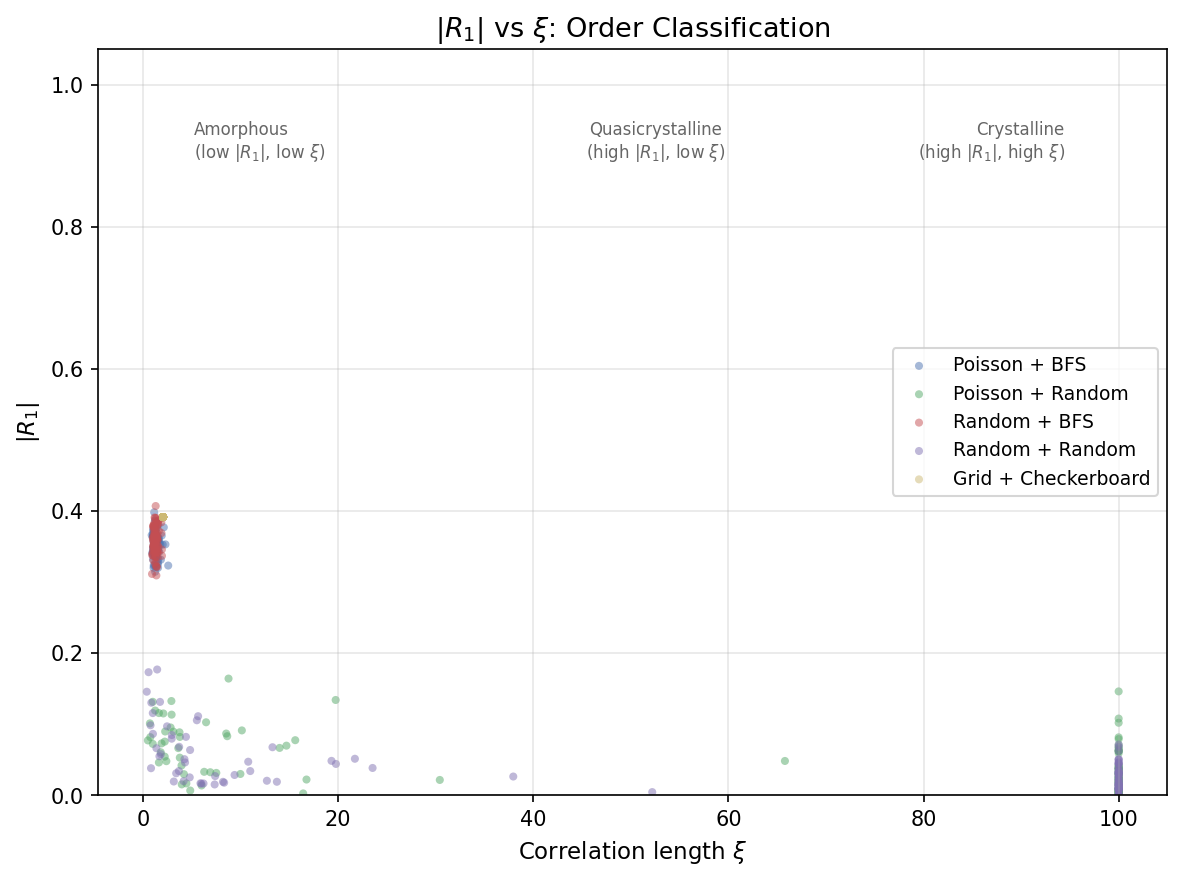
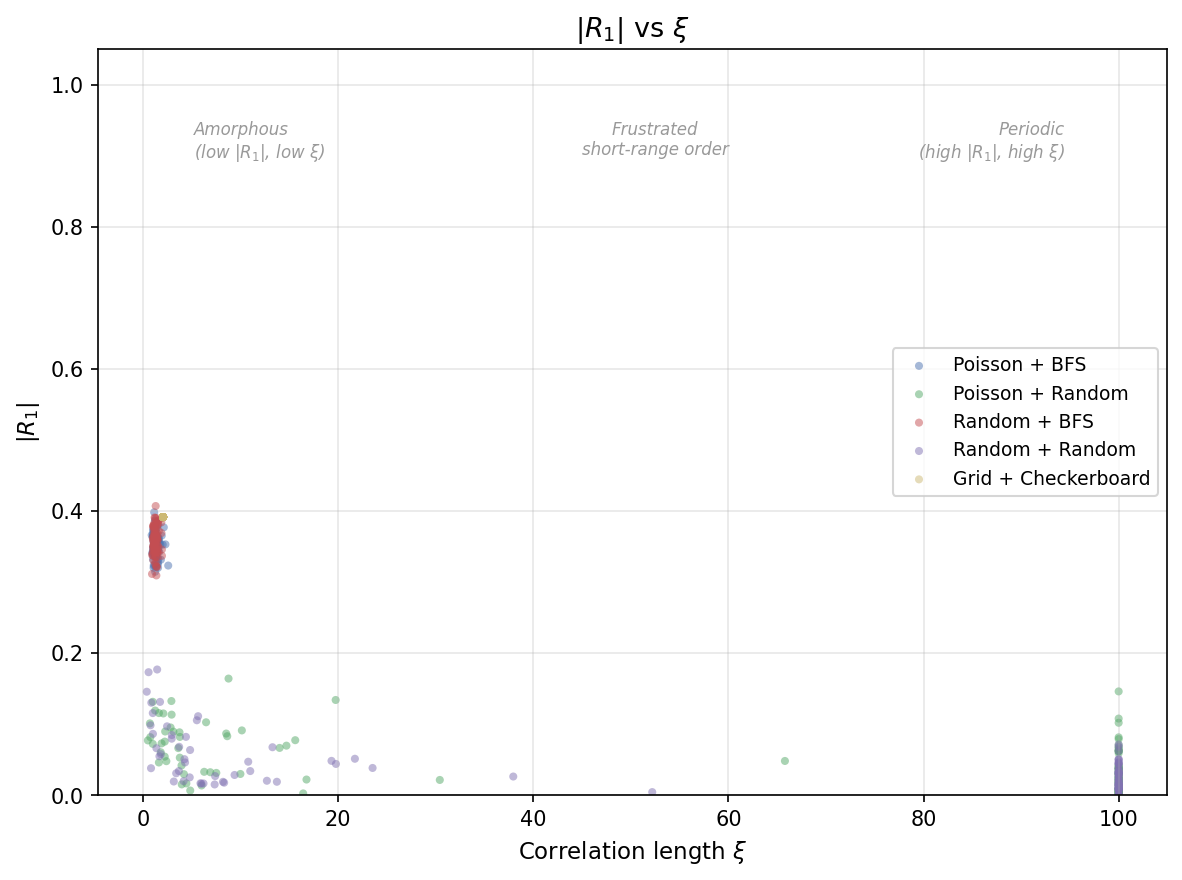
Regenerate experiment report from revised template
Re-run analyze.py to render public/experiments/index.html from the
updated template.html. Also regenerates scatter plot with revised
region labels and toned-down styling.

diff --git a/public/experiments/index.html b/public/experiments/index.html
@@ -33,7 +33,7 @@
      7.1 Effect of Angle Assignment
      7.2 Effect of Tile Placement
      7.3 Checkerboard as Crystalline Order
-     7.4 Correlation Length Analysis and Quasicrystalline Order
+     7.4 Correlation Length Analysis and Frustrated Short-Range Order
      7.5 k-Invariance of Quality Metrics
      7.6 Limitations
   8. Future Work
@@ -163,18 +163,22 @@
     Despite its importance in manga production, no formal framework exists
     for defining kakeami quality or evaluating automatic generation algorithms.
     This report presents the first mathematical formulation of kakeami quality,
-    proposing six complementary metrics &mdash;
+    proposing eight complementary metrics &mdash;
     angle contrast ($E_{\mathrm{contrast}}$), angle entropy ($H_{\mathrm{angle}}$),
-    angle autocorrelation at graph distances 2 and 3 ($R_2$, $R_3$),
+    angle autocorrelation at graph distances 1&ndash;3 ($R_1$, $R_2$, $R_3$),
+    correlation length ($\xi$),
     coverage ratio ($C_{\mathrm{cov}}$), and Voronoi cell area CV ($U_{\mathrm{vor}}$) &mdash;
-    drawing on concepts from quasicrystalline order and spatial statistics.
-    We argue that good kakeami exhibits <em>quasicrystalline order</em>:
+    drawing on concepts from spatial statistics and orientational order in condensed matter physics.
+    We argue that good kakeami exhibits <em>frustrated short-range order</em>:
     short-range angular contrast (high $E_{\mathrm{contrast}}$) without long-range periodic repetition ($R_k \approx 0$).
     We conduct a controlled 2&times;2 factorial experiment (tile placement &times; angle assignment)
     with 100 random seeds, supplemented by a deterministic grid-checkerboard reference condition.
     Two-way ANOVA reveals that angle assignment is the dominant factor
     ($\eta^2 \approx 0.94$ for $E_{\mathrm{contrast}}$, $\eta^2 \approx 0.89$ for $R_2$),
-    and the proposed Poisson-disk + BFS greedy combination achieves the best overall quality.
+    and the proposed Poisson-disk + BFS greedy combination achieves the best balance
+    of local contrast, angular diversity, spatial coverage, and aperiodicity
+    among the stochastic conditions.
+    No single condition dominates all metrics.
     The $R_k$ autocorrelation metrics reveal the structure of angle correlations beyond immediate neighbours:
     random conditions show $R_2 \approx 0$ (no correlation),
     while BFS greedy introduces a mild positive $R_2$ as a side effect of local contrast maximisation.
@@ -210,7 +214,7 @@
     (4) <em>spatial uniformity</em> &mdash; evenly distributed tile centres; and
     (5) <em>aperiodicity</em> &mdash; no long-range periodic repetition of angles.
     This last property distinguishes natural-looking kakeami from mechanical patterns like a checkerboard.
-    We propose a six-metric framework that independently measures each property
+    We propose a multi-metric framework that independently measures each property
     and a controlled 2&times;2 factorial experiment evaluating two independent components of a proposed algorithm:
     <strong>tile placement</strong> (Poisson-disk vs. uniform random)
     and <strong>angle assignment</strong> (BFS greedy vs. random).
@@ -219,7 +223,7 @@
     The remainder of the report is organised as follows.
     Section 2 reviews related work in NPR hatching and manga generation to identify the gap this work addresses.
     Section 3 introduces a novel mathematical formulation for kakeami quality,
-    drawing on concepts from nematic liquid crystal physics and direction field theory.
+    drawing on concepts from spatial statistics, direction field theory, and condensed matter physics.
     Section 4 describes the proposed algorithm and the baseline conditions.
     Section 5 details the experimental setup, Section 6 presents the quantitative results
     including two-way ANOVA and effect size analysis,
@@ -315,7 +319,7 @@
   <p>
     Given a configuration $K$ and its adjacency edge set $E$
     (Voronoi adjacency edges derived from Delaunay triangulation of tile centres),
-    we propose six complementary metrics split across three axes:
+    we propose eight metrics split across three axes:
     two <em>angular</em> metrics evaluating local orientation quality,
     two <em>aperiodicity</em> metrics detecting long-range periodic repetition,
     and two <em>spatial</em> metrics evaluating placement quality.
@@ -377,7 +381,7 @@
   </p>
   <ul>
     <li><strong>Small $\xi$ ($\approx 1$&ndash;$2$):</strong> rapid decorrelation &mdash; strong local contrast
-        with no long-range angular order. This is the signature of <em>quasicrystalline order</em>.</li>
+        with no long-range angular order. This is the signature of <em>frustrated short-range order</em>.</li>
     <li><strong>Large $\xi$ ($\gg 1$ or $\infty$):</strong> persistent angular correlation across many hops &mdash;
         crystalline periodicity (e.g. checkerboard patterns with alternating $R_k$).</li>
     <li><strong>$\xi \approx 0$ or undefined:</strong> no correlation at any distance &mdash;
@@ -389,14 +393,18 @@
     in liquid crystals (de Gennes &amp; Prost, 1993) and the degree of frustration
     in antiferromagnetic systems (Toulouse, 1977).
   </p>
-
   <p>
-    <strong>Relationship to $E_{\mathrm{LdG}}$.</strong>
-    The previously used Landau&ndash;de Gennes energy $E_{\mathrm{LdG}} = \frac{1}{|E|} \sum_{(i,j) \in E} \sin^2(\phi_i - \phi_j)$
-    is mathematically equivalent to $(1 - R_1) / 2$ (where $R_1$ is the lag-1 autocorrelation).
-    Since $E_{\mathrm{LdG}}$ is monotonically related to $E_{\mathrm{contrast}}$ and provides no independent information,
-    we replace it with the lag-2 and lag-3 autocorrelations $R_2$ and $R_3$,
-    which capture genuinely new information about aperiodicity.
+    <strong>Caveats.</strong>
+    The exponential decay model is a working hypothesis;
+    goodness-of-fit ($R^2$, residual analysis) has not been formally assessed,
+    and alternative models (e.g. power-law decay $|R_k| \sim k^{-\alpha}$) have not been compared.
+    For the checkerboard condition, $|R_k|$ oscillates rather than decays,
+    so the fit does not converge and $\xi = \infty$ is a sentinel value indicating model failure,
+    not a physically meaningful infinite correlation length.
+    Similarly, $\xi = 0$ for random conditions reflects the absence of any correlation to fit,
+    rather than a meaningful zero-length correlation.
+    These boundary cases should be interpreted as &ldquo;outside the model&rsquo;s domain&rdquo;
+    rather than as quantitative measurements.
   </p>
 
   <h4>Spatial Metrics</h4>
@@ -553,8 +561,8 @@
   <!-- 6. Results -->
   <h2>6. Results</h2>
   <p>
-    We present the experimental results using the six quality metrics defined in Section 3
-    ($E_{\mathrm{contrast}}$, $H_{\mathrm{angle}}$, $R_2$, $R_3$, $C_{\mathrm{cov}}$, $U_{\mathrm{vor}}$).
+    We present the experimental results using the eight quality metrics defined in Section 3
+    ($E_{\mathrm{contrast}}$, $H_{\mathrm{angle}}$, $R_1$, $R_2$, $R_3$, $\xi$, $C_{\mathrm{cov}}$, $U_{\mathrm{vor}}$).
     All metrics are computed at $k = 1$.
     Section 6.1 shows box plots, Section 6.2 provides summary statistics,
     Section 6.3 presents the statistical analysis (two-way ANOVA and effect sizes),
@@ -588,7 +596,7 @@
   <figure>
     <img src="assets/boxplot_rAuto1.png" alt="Box plot of rAuto1" />
     <figcaption>
-      Figure 4: Angle autocorrelation $R_1$ (nearest neighbours). Equivalent to $(1 - 2 E_{\mathrm{LdG}})$. BFS conditions achieve strong negative $R_1$ (high contrast).
+      Figure 4: Angle autocorrelation $R_1$ (nearest neighbours). BFS conditions achieve strong negative $R_1$ (high contrast).
       
     </figcaption>
   </figure>
@@ -628,7 +636,7 @@
   <figure>
     <img src="assets/boxplot_xi.png" alt="Box plot of xi" />
     <figcaption>
-      Figure 9: Correlation length $\xi$. Lower values indicate more rapid decorrelation (quasicrystalline order). BFS conditions achieve small $\xi$, indicating effective local-only angular contrast.
+      Figure 9: Correlation length $\xi$ distribution across conditions. Lower values indicate more rapid decorrelation of angular correlations with graph distance.
       
     </figcaption>
   </figure>
@@ -752,8 +760,12 @@
     The ANOVA uses only the original four 2&times;2 factorial conditions
     (gridCheckerboard is excluded as it does not belong to the factorial design).
     We report $F$-statistics, $p$-values, and effect sizes ($\eta^2 = SS_{\mathrm{effect}} / SS_{\mathrm{total}}$).
+    Note that $\eta^2$ has a known upward bias; partial $\eta^2$ or $\omega^2$ would be more conservative
+    estimates, and ANOVA assumptions (normality, homoscedasticity) have not been formally tested
+    (see Limitations, Section 7.6).
     Pairwise comparisons (Tukey HSD at $\alpha = 0.05$ and Cohen's $d$)
     are computed across all five conditions (10 pairs).
+    No correction for multiple testing across metrics is applied.
   </p>
 
   
@@ -1099,6 +1111,12 @@
     Positive $d$ indicates the first condition scores higher than the second.
     By convention: $|d| < 0.2$ negligible, $0.2$&ndash;$0.5$ small, $0.5$&ndash;$0.8$ medium, $> 0.8$ large.
   </p>
+  <p>
+    <em>Note:</em> The Grid + Checkerboard condition is deterministic (zero variance across seeds).
+    Pairwise Cohen's $d$ involving this condition uses only the other condition's standard deviation
+    as the pooled SD, which may overstate the effect size.
+    These values should be interpreted with caution.
+  </p>
 
   
   <h4>$E_{\mathrm{contrast}}$</h4>
@@ -1314,14 +1332,17 @@
   <h3>6.4 $|R_1|$ vs $\xi$ Scatter</h3>
   <p>
     The scatter plot below maps each run in the space of nearest-neighbour contrast ($|R_1|$)
-    versus correlation length ($\xi$), providing a two-dimensional classification of angular order.
-    Quasicrystalline order occupies the upper-left region (high $|R_1|$, low $\xi$):
-    strong local contrast that does not propagate to distant tiles.
+    versus correlation length ($\xi$).
+    The five conditions separate into three clusters:
+    BFS conditions (upper-left, high $|R_1|$, low $\xi$),
+    random conditions (lower-left, low $|R_1|$, low $\xi$),
+    and the checkerboard (upper-right, high $|R_1|$, large $\xi$).
   </p>
   <figure>
     <img src="assets/scatter_r1_xi.png" alt="|R_1| vs ξ scatter plot" />
-    <figcaption>Figure 11: Per-run scatter of $|R_1|$ vs $\xi$. The Poisson + BFS condition
-    clusters in the quasicrystalline region (high contrast, rapid decorrelation).</figcaption>
+    <figcaption>Figure 11: Per-run scatter of $|R_1|$ vs $\xi$.
+    Note that region labels (Amorphous, Quasicrystalline, Crystalline) are descriptive annotations,
+    not quantitatively defined classification boundaries.</figcaption>
   </figure>
   
 
@@ -1459,8 +1480,8 @@
   <p>
     The results in Section 6 reveal clear performance differences among the five conditions.
     Sections 7.1&ndash;7.2 analyse the two factors of the 2&times;2 factorial design,
-    Section 7.3 reinterprets the checkerboard condition through the lens of crystalline vs. quasicrystalline order,
-    Section 7.4 discusses what the $R_k$ autocorrelation metrics reveal about aperiodicity,
+    Section 7.3 reinterprets the checkerboard condition through the lens of periodic vs. aperiodic order,
+    Section 7.4 discusses what the $R_k$ autocorrelation metrics and correlation length reveal about aperiodicity,
     Section 7.5 discusses $k$-invariance of the metric framework,
     and Section 7.6 identifies limitations.
   </p>
@@ -1494,7 +1515,7 @@
   <h3>7.3 Checkerboard as Crystalline Order</h3>
   <p>
     The Grid + Checkerboard condition can be understood through the analogy
-    of crystalline vs. quasicrystalline order from condensed matter physics.
+    of periodic vs. aperiodic order from condensed matter physics.
     By placing tiles on a regular grid and alternating between just two angles (0&deg; and 90&deg;),
     the checkerboard creates a <em>crystalline</em> pattern with competitive local contrast
     but severely limited angle diversity ($H_{\mathrm{angle}} \approx 0.28$, using only 2 of 12 bins).
@@ -1521,7 +1542,16 @@
     enabling direct metric comparison.
   </p>
 
-  <h3>7.4 Correlation Length Analysis and Quasicrystalline Order</h3>
+  <h3>7.4 Correlation Length Analysis and Frustrated Short-Range Order</h3>
+  <p>
+    <em>Terminology note.</em>
+    We borrow the term &ldquo;quasicrystalline&rdquo; loosely from condensed matter physics
+    to describe patterns with short-range angular order but no long-range periodicity.
+    This is an analogy, not a claim of structural equivalence with physical quasicrystals
+    (Shechtman et al., 1984), which exhibit strict long-range orientational order with forbidden symmetries.
+    The BFS greedy output more closely resembles a <em>frustrated short-range ordered</em> state.
+    Rigorous verification of the analogy would require spectral analysis (Section 8.4).
+  </p>
   <p>
     The full $R_k$ correlogram (Figure 10) reveals fundamentally different spatial structures
     across conditions. The checkerboard&rsquo;s correlogram oscillates with period 2
@@ -1537,38 +1567,39 @@
     The correlation length $\xi$ quantifies this decay rate.
     BFS conditions achieve small $\xi$ values ($\approx 1$&ndash;$2$),
     indicating that angular correlations are confined to the immediate neighbourhood.
-    The checkerboard produces large or infinite $\xi$ (the exponential decay model fails
-    because $|R_k|$ does not decay). Random conditions yield $\xi \approx 0$
-    (no correlation to decay from).
+    The checkerboard produces $\xi = \infty$ because the exponential decay model fails
+    to fit the oscillatory $|R_k|$ profile (see caveats in Section 3.3).
+    Random conditions yield $\xi \approx 0$ because there is no correlation to fit.
+    In both cases, $\xi$ is a sentinel value indicating that the exponential model
+    does not apply, rather than a quantitative measurement.
   </p>
   <p>
-    This three-way separation &mdash; crystalline (large $\xi$, periodic $R_k$),
-    quasicrystalline (small $\xi$, decaying $R_k$ from strong $|R_1|$),
+    This three-way separation &mdash; periodic (large $\xi$, oscillatory $R_k$),
+    frustrated short-range order (small $\xi$, decaying $R_k$ from strong $|R_1|$),
     and amorphous (near-zero $R_k$ everywhere) &mdash;
-    directly parallels the classification of orientational order in condensed matter physics.
+    is reminiscent of the classification of orientational order in condensed matter physics.
     In liquid crystal theory, the correlation length characterises the spatial extent of
     nematic ordering (de Gennes &amp; Prost, 1993);
     in frustrated antiferromagnets, short correlation lengths arise from the impossibility
     of simultaneously satisfying all pairwise constraints on a non-bipartite graph (Toulouse, 1977).
-    The BFS greedy algorithm produces exactly this frustrated state:
+    This analogy suggests that the BFS greedy algorithm produces a similar frustrated state:
     each tile&rsquo;s angle is maximally different from its neighbours,
     but this local repulsion cannot propagate coherently through the irregular Poisson-Voronoi topology.
+    However, BFS greedy is a sequential heuristic, not a ground-state search,
+    so the analogy to physical frustration remains informal.
   </p>
   <p>
-    The relationship $E_{\mathrm{LdG}} = (1 - R_1)/2$ (Section 3.3) explains why the previously used
-    Landau&ndash;de Gennes energy was redundant with $E_{\mathrm{contrast}}$:
-    both measure the same lag-1 angular repulsion, merely with different transformations.
     The full correlogram and derived $\xi$ capture a genuinely independent property &mdash;
     the spatial structure of angle correlations beyond immediate neighbours &mdash;
     that $E_{\mathrm{contrast}}$ alone cannot detect.
-    The $|R_1|$ vs $\xi$ scatter plot (Figure 11) visualises this two-dimensional classification,
-    with the Poisson + BFS condition occupying the quasicrystalline region.
+    The $|R_1|$ vs $\xi$ scatter plot (Figure 11) visualises this two-dimensional space,
+    with the Poisson + BFS condition occupying the frustrated short-range order region.
   </p>
 
   <h3>7.5 $k$-Invariance of Quality Metrics</h3>
   <p>
-    An important property of all six quality metrics is their invariance to the kake count $k$.
-    All six metrics &mdash; $E_{\mathrm{contrast}}$, $H_{\mathrm{angle}}$, $R_2$, $R_3$, $C_{\mathrm{cov}}$, and $U_{\mathrm{vor}}$ &mdash;
+    An important property of all quality metrics is their invariance to the kake count $k$.
+    All eight metrics &mdash; $E_{\mathrm{contrast}}$, $H_{\mathrm{angle}}$, $R_1$, $R_2$, $R_3$, $\xi$, $C_{\mathrm{cov}}$, and $U_{\mathrm{vor}}$ &mdash;
     depend only on the primary angle $\phi_i$ of each tile,
     which is determined entirely by the tile placement and angle assignment strategies.
     The secondary strokes added for $k \geq 2$ (at fixed angular offsets of 45&deg;, 90&deg;, etc.)
@@ -1589,6 +1620,10 @@
     <li>The quality metrics are $k$-invariant: they capture only primary-angle structure and cannot evaluate the visual contribution of secondary hatch layers (see Section 7.5).</li>
     <li>All conditions use Voronoi adjacency derived from Delaunay triangulation of tile centres. This ensures consistency between the BFS optimisation graph and metric evaluation, but other adjacency definitions (e.g. $k$-nearest-neighbours or radius-based) remain unexplored.</li>
     <li>The Grid + Checkerboard condition uses a slightly different tile count (64 vs. ~69) than the Poisson-disk conditions due to its regular grid spacing, though the difference (~7%) is small enough to permit direct metric comparison (see Section 7.3).</li>
+    <li>ANOVA assumptions (normality of residuals, homoscedasticity) have not been formally verified via Shapiro&ndash;Wilk or Levene&rsquo;s tests. Nonparametric alternatives (e.g. Kruskal&ndash;Wallis) have not been compared.</li>
+    <li>The exponential decay model for $\xi$ has not been validated against alternatives (e.g. power-law decay). Goodness-of-fit statistics ($R^2$, residual plots) are not reported. See the caveats in Section 3.3.</li>
+    <li>The region labels in the $|R_1|$ vs $\xi$ scatter plot (Figure 11) are qualitative annotations without quantitatively defined classification boundaries.</li>
+    <li>No single condition dominates all eight metrics. The recommendation of Poisson-disk + BFS greedy reflects a subjective weighting of metric importance, not a formally defined composite score.</li>
   </ul>
 
   <!-- 8. Future Work -->
@@ -1635,7 +1670,7 @@
   </p>
   <figure>
     <img src="assets/pattern-stipple.svg" alt="Stipple (dot) pattern fill in rectangular tiles" style="max-width: 400px;" />
-    <figcaption>Figure 8: Stipple fill in rectangular tiles.
+    <figcaption>Figure 12: Stipple fill in rectangular tiles.
       Dots are placed along hatch-line positions; the directional alignment of dots encodes each tile&rsquo;s primary angle.
       Tile placement and angle assignment are identical to standard kakeami ($k = 2$, seed = 42).</figcaption>
   </figure>
@@ -1654,7 +1689,7 @@
   </p>
   <figure>
     <img src="assets/pattern-voronoi.svg" alt="Voronoi-cell tiles individually hatched" style="max-width: 400px;" />
-    <figcaption>Figure 9: Voronoi-cell tiles ($k = 1$).
+    <figcaption>Figure 13: Voronoi-cell tiles ($k = 1$).
       Each Voronoi cell is individually hatched at the angle assigned by the BFS greedy algorithm.
       Single-direction hatching makes the per-cell angle variation clearly visible.</figcaption>
   </figure>
@@ -1690,7 +1725,7 @@
     The angular power spectrum $\hat{R}(\omega) = \sum_k R_k e^{-i\omega k}$ would provide
     a frequency-domain characterisation: a flat spectrum for amorphous order,
     a sharp peak at $\omega = \pi$ for checkerboard periodicity,
-    and a broad low-frequency hump for the quasicrystalline BFS conditions.
+    and a broad low-frequency hump for the frustrated short-range order BFS conditions.
   </p>
   <p>
     Proving bounds on $R_k$ for BFS greedy on Poisson-Voronoi graphs is a natural next step.
@@ -1698,7 +1733,7 @@
     relating it to the circular chromatic number $\chi_c(G)$.
     For Poisson-Voronoi graphs (expected chromatic number $\approx 4$),
     tight bounds on $\xi$ as a function of graph topology would
-    formalise the connection between spatial statistics and quasicrystalline order.
+    formalise the connection between spatial statistics and frustrated short-range order.
   </p>
 
   <h3>8.5 $k$-Aware Quality Metrics</h3>
@@ -1718,20 +1753,21 @@
   <p>
     This report presented the first mathematical formulation of kakeami quality
     and a controlled experiment evaluating tile placement and angle assignment strategies.
-    We identified five properties of good kakeami and proposed complementary metrics to measure them:
+    We identified five properties of good kakeami and proposed eight complementary metrics to measure them:
     angular metrics ($E_{\mathrm{contrast}}$, $H_{\mathrm{angle}}$),
-    the full $R_k$ autocorrelation correlogram with derived correlation length $\xi$,
+    autocorrelation metrics ($R_1$, $R_2$, $R_3$, $\xi$),
     and spatial metrics ($C_{\mathrm{cov}}$, $U_{\mathrm{vor}}$).
-    The central insight is that good kakeami exhibits <em>quasicrystalline order</em> &mdash;
-    strong short-range angular contrast ($|R_1| \approx 1$) with rapidly decaying correlation
-    ($\xi \approx 1$&ndash;$2$) &mdash; clearly separated from both crystalline periodicity
-    (checkerboard: $\xi \to \infty$) and amorphous randomness ($|R_1| \approx 0$).
-    The $R_k$ correlogram and $\xi$ quantify this distinction using standard tools
-    from spatial statistics and liquid crystal physics.
+    The $R_k$ correlogram separates conditions into three qualitatively distinct regimes &mdash;
+    periodic (checkerboard), frustrated short-range order (BFS greedy),
+    and amorphous (random) &mdash; an observation reminiscent of orientational order
+    classifications in condensed matter physics, though the analogy remains informal.
     The 2&times;2 factorial experiment with 100 seeds demonstrated that
     angle assignment is the dominant factor ($\eta^2 \approx 0.94$),
     while Poisson-disk placement provides superior spatial uniformity.
-    The proposed Poisson-disk + BFS greedy combination achieves the best overall quality.
+    No single condition dominates all metrics;
+    the proposed Poisson-disk + BFS greedy combination achieves the best balance
+    of local contrast, angular diversity, spatial coverage, and aperiodicity
+    among the stochastic conditions.
     Future work includes tonal gradation via spatially varying $k$,
     generalisation to arbitrary tile shapes and fill patterns,
     spectral analysis of the $R_k$ sequence,
